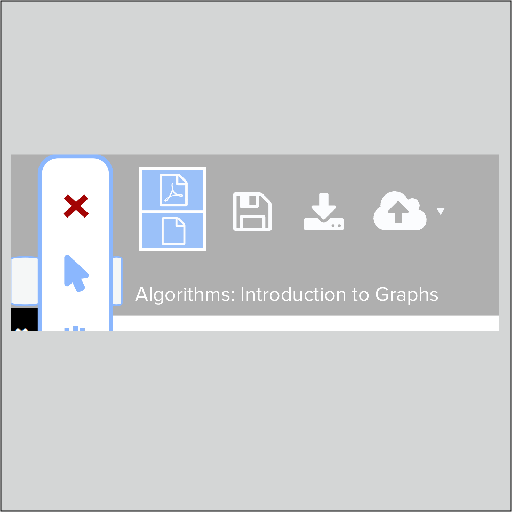
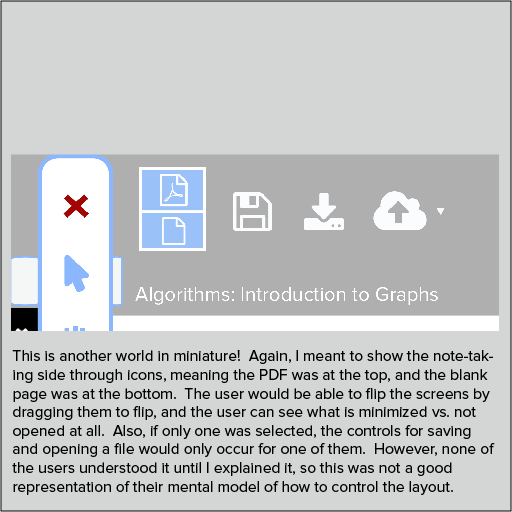
change younote
world in miniature, final prototype summary background color

Changed region(s): [[0.0312, 0.6875, 0.9688, 0.9688]]

diff --git a/ux/younote.html b/ux/younote.html
@@ -273,8 +273,9 @@ j=d.createElement(s),dl=l!='dataLayer'?'&l='+l:'';j.async=true;j.src=
 
 
 <div class="final_prototype">
+ 
+<div class="final_prototype_summary">
     <div class="container">
-    <br>
 <p id="section_title">FINAL PROTOTYPE & DESIGN DECISIONS</p>
         <div class="row">
             <div class="col-md-1 col-lg-1"></div>
@@ -284,10 +285,11 @@ j=d.createElement(s),dl=l!='dataLayer'?'&l='+l:'';j.async=true;j.src=
             <div class="col-md-1 col-lg-1"></div>
             </div>
         </div>
+    </div><!--end final_prototype_summary-->
+
 <br>
 <div class="firstprototype finalprototype">
     <div class="container">
-<hr>
     <p id="final_prototype_section" class="col-md-12 col-lg-12">PROTOTYPE 1</p>
        
         <div class="row">

diff --git a/ux/younote.css b/ux/younote.css
@@ -114,12 +114,17 @@ background-color:#000000;
     text-decoration:none;
 }
 
-/*.firstprototype, .thirdprototype {
+.final_prototype_summary{
     background-color:#e7e9eb;
-}*/
+    padding:2%;
+}
 
 .finalprototype {
     padding:2%;
+}
+
+.firstprototype {
+    padding-top:5px;
 }
 
 #lightbox_normal img{
